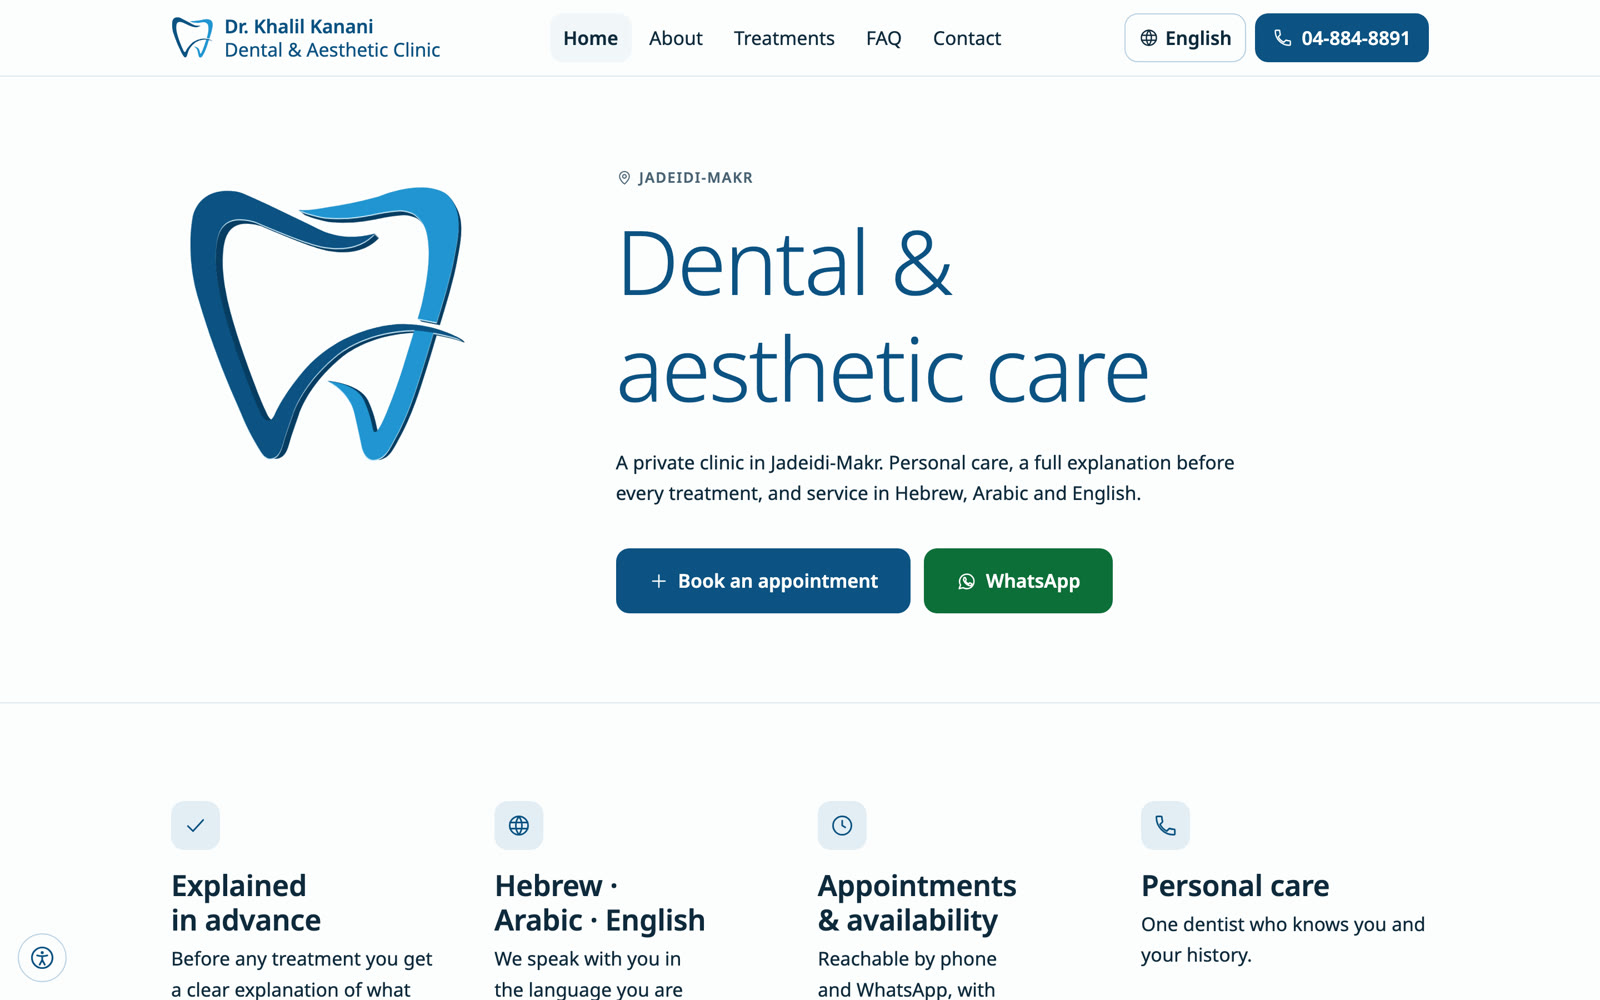
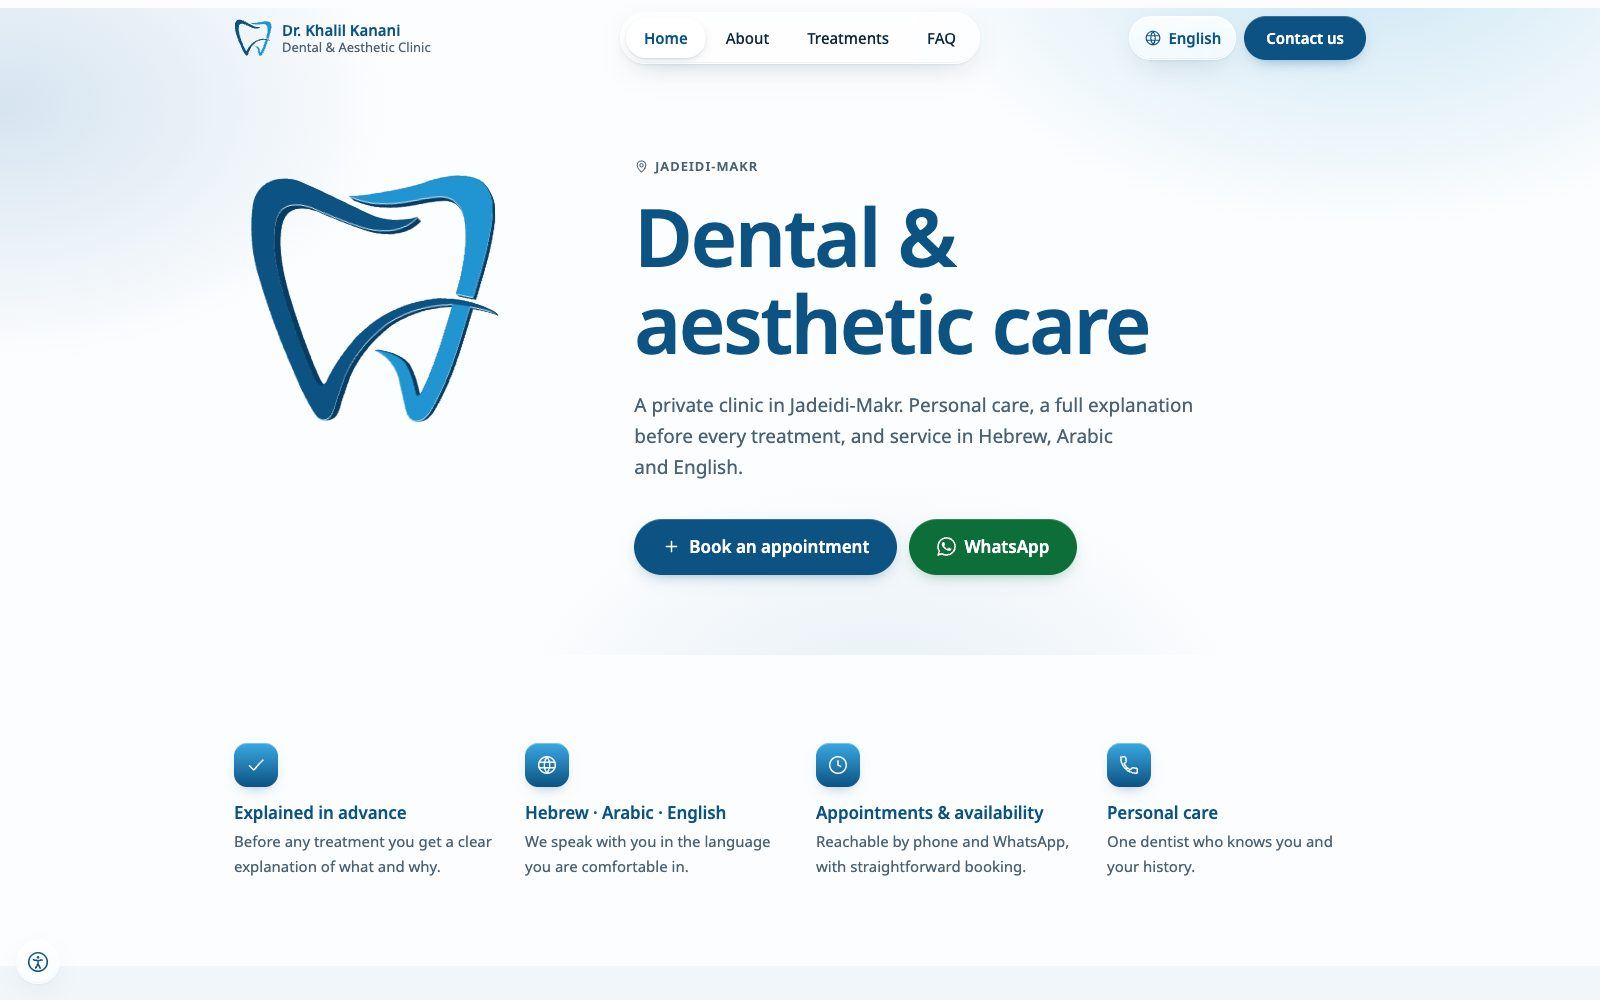
feat: show the new Dr. Khalil Kanani design in My Work and All Works

diff --git a/portfolio/site.config.js b/portfolio/site.config.js
@@ -180,10 +180,10 @@ const config = {
       tools: 'Astro, TypeScript, Zod, Playwright, GitHub Actions, Cloudflare Workers. Hebrew, Arabic, and English pages, WhatsApp appointment requests, and 10 checks before every deploy.',
       summary: 'The website of a dental clinic in Jadeidi-Makr, in Hebrew, Arabic, and English, with WhatsApp appointment requests. My first live client site: since launch week, every deploy waits for 10 automated checks, from type checks to browser tests in all three languages.',
       stack: 'Astro, TypeScript, Tailwind, Zod, Playwright, GitHub Actions, Cloudflare Workers',
-      image: 'assets/img/work/clinic-en.jpg',
+      image: 'assets/img/work/clinic-en.jpg?v=2',
       width: 1600, // image size in pixels (prevents layout shift)
       height: 1000,
-      card: 'assets/img/works/dr-khalil-kanani.jpg',
+      card: 'assets/img/works/dr-khalil-kanani.jpg?v=2',
       alt: 'Home page of the Dr. Khalil Kanani dental clinic website in English',
       link: 'https://www.drkhalilkanani.com/',
     },
